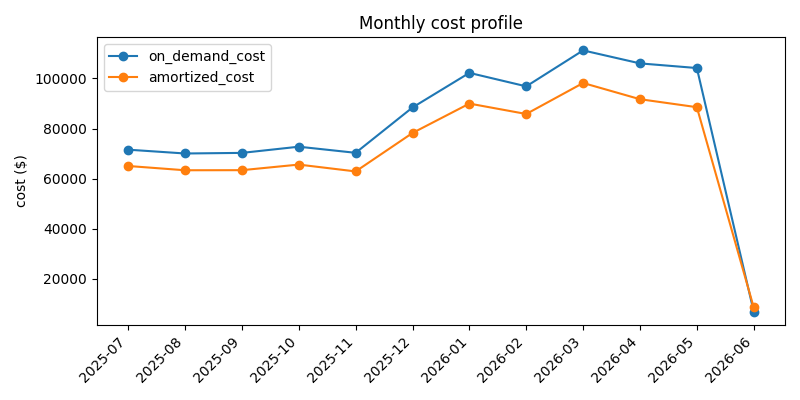
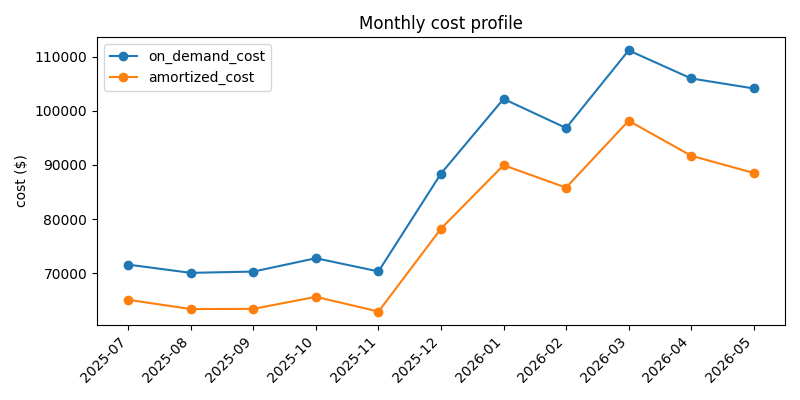
challenge 00 edit (duplicates, plots)

diff --git a/output/challenge_00/summary.md b/output/challenge_00/summary.md
@@ -16,6 +16,7 @@ Dataset ready for analysis: yes
 - Off-hour timestamps, negative values, and non-finite costs.
 - Null profile by column.
 - Monthly row and cost profile.
+- Monthly on-demand-equivalent load trend, duplicate checks, ratio diagnostics, commitment consistency, and pricing key coverage.
 
 ## Cleaning Applied
 
@@ -26,6 +27,18 @@ Dataset ready for analysis: yes
 ## Anomaly Review Note
 
 No fatal anomaly found. The notable data artifact was off-hour `Unused Commitment` rows, and 13 rows were normalized into `analysis_timestamp` while preserving `source_timestamp`.
+
+## Additional Diagnostics
+
+- Monthly AWS demand trend from complete months: growing across 2025-07 to 2026-05.
+- Last observed month excluded from trend interpretation: yes.
+- Exact duplicate rows: 0.
+- Duplicate hourly line keys: 108,029.
+- Numeric anomaly rows across explicit sanity checks: 0.
+- Unexpected `cost_type` values: none.
+- Unexpected `commitment_key` prefixes: none.
+- Commitment consistency failures: 0.
+- Usage rows missing pricing matches: 19,294,842 (81.28%).
 
 ## Assumptions And Risks
 

diff --git a/output/challenge_00/methodology.md b/output/challenge_00/methodology.md
@@ -5,7 +5,7 @@
 1. Load raw usage and pricing parquet files into DuckDB.
 2. Build `usage_ready`, a derived view that preserves raw timestamps and adds normalized hourly buckets.
 3. Run schema, timestamp, and numeric readiness checks.
-4. Produce EDA tables for schema, nulls, cost types, and monthly row/cost shape.
+4. Produce EDA tables for schema, nulls, cost types, duplicate keys, ratios, pricing coverage, and monthly row/cost shape.
 5. Reuse the shared `usage_ready` view directly in later challenge scripts.
 
 ## Cleaning Rule

diff --git a/output/challenge_00/understanding_ledger.md b/output/challenge_00/understanding_ledger.md
@@ -10,12 +10,14 @@
 
 - Trusted DuckDB to scan parquet files, build the readiness view, and generate the grouped EDA tables after checks passed.
 - Trusted matplotlib for the row and cost profile plots after checking the underlying monthly tables.
+- Trusted simple ranked diagnostics and month-over-month deltas for duplicate, ratio, and spike summaries rather than imposing statistical outlier thresholds.
 
 ## What I'm Unsure Of
 
 - Whether future challenges need more normalization than hourly timestamp bucketing.
 - Whether additional business-specific data rules will be needed once commitment optimization begins.
 - Readiness currently normalizes timestamp shape only; it does not adjudicate semantic correctness of every cost row.
+- Ranked ratio and spike outputs are diagnostics only; they do not prove invalid billing on their own.
 
 ## Anomaly Review
 